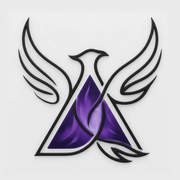
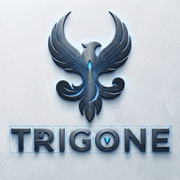
Version 39 : nouvelle icône de l'application TRIGONE
Claude-Session: https://claude.ai/code/session_01NStkfCttCkWn8HaycQvLWX

diff --git a/cr/index.html b/cr/index.html
@@ -11,9 +11,9 @@
 <link rel="manifest" href="../manifest.json">
 <meta name="apple-mobile-web-app-title" content="TRIGONE">
 <meta name="application-name" content="TRIGONE">
-<script src="../jumelage.js?v=39"></script>
-<link rel="icon" type="image/png" sizes="192x192" href="icon-192.png">
-<link rel="apple-touch-icon" href="apple-touch-icon.png">
+<script src="../jumelage.js?v=40"></script>
+<link rel="icon" type="image/png" sizes="192x192" href="icon-192.png?v=2">
+<link rel="apple-touch-icon" href="apple-touch-icon.png?v=2">
 <link rel="preconnect" href="https://fonts.googleapis.com">
 <link rel="preconnect" href="https://fonts.gstatic.com" crossorigin>
 <link href="https://fonts.googleapis.com/css2?family=Montserrat:wght@400;500;600;700;800&display=swap" rel="stylesheet">
@@ -11516,7 +11516,7 @@ function SET_UPDATE_SEEN_VERSION(cle, version) {
 // Numéro de version du code de CETTE appli. À augmenter à chaque publication, en même temps que
 // « appCodeVersion » dans updates-manifest.json : c'est ce qui permet à l'appli de savoir si elle est
 // déjà à jour (elle affiche alors les « Nouveautés ») ou en retard (elle demande la mise à jour).
-var APP_CODE_VERSION = 136;
+var APP_CODE_VERSION = 137;
 // Jumelage : numéro affiché « V1, V2… » ; APP_CODE_VERSION reste le compteur interne des mises à jour
 // (à augmenter avec appCodeVersion de cr/updates-manifest.json, sans jamais le faire redescendre).
 var APP_VERSION_AFFICHEE = APP_CODE_VERSION - 98;

diff --git a/index.html b/index.html
@@ -5,14 +5,14 @@
 <meta name="viewport" content="width=device-width, initial-scale=1, viewport-fit=cover">
 <title>TRIGONE — Mise en route</title>
 <link rel="manifest" href="manifest.json">
-<script src="jumelage.js?v=39"></script>
+<script src="jumelage.js?v=40"></script>
 <meta name="theme-color" content="#E8F0F6">
 <link rel="preconnect" href="https://fonts.googleapis.com">
 <link rel="preconnect" href="https://fonts.gstatic.com" crossorigin>
 <link href="https://fonts.googleapis.com/css2?family=Montserrat:wght@400;500;600;700;800&display=swap" rel="stylesheet">
-<link rel="apple-touch-icon" href="apple-touch-icon.png">
-<link rel="icon" type="image/png" sizes="32x32" href="favicon-32.png">
-<link rel="icon" type="image/png" sizes="192x192" href="icon-192.png">
+<link rel="apple-touch-icon" href="apple-touch-icon.png?v=2">
+<link rel="icon" type="image/png" sizes="32x32" href="favicon-32.png?v=2">
+<link rel="icon" type="image/png" sizes="192x192" href="icon-192.png?v=2">
 <meta name="apple-mobile-web-app-capable" content="yes">
 <meta name="apple-mobile-web-app-title" content="TRIGONE">
 <meta name="application-name" content="TRIGONE">
@@ -834,6 +834,6 @@ body.pc-depot::after { content: 'Déposez les fichiers pour les importer'; posit
     </div>
   </div>
 </div>
-<script src="app.js?v=39"></script>
+<script src="app.js?v=40"></script>
 </body>
 </html>

diff --git a/jumelage.js b/jumelage.js
@@ -420,7 +420,7 @@
     // Dès l'ouverture (démarrage ou retour dans l'appli), TRIGONE vérifie s'il existe une publication plus récente
     // et se met à jour tout seul. Jamais au mauvais moment : uniquement sur l'accueil, sans fenêtre ouverte
     // (chaque appli le dit via JUMELAGE_PEUT_RECHARGER) ; sinon au prochain retour sur l'accueil.
-    var BUILD = 39, MAJ_DISPO = false, CLE_RECHARGE = 'trigone_recharge_build';
+    var BUILD = 40, MAJ_DISPO = false, CLE_RECHARGE = 'trigone_recharge_build';
     function peutRecharger() {
         if (document.visibilityState === 'hidden') return false;
         if (document.body && document.body.classList.contains('demo-active')) return false;

diff --git a/app.js b/app.js
@@ -1,7 +1,7 @@
 // ===================== TRIGONE MISE EN ROUTE — logique =====================
 var MER_VERSION = 1;          // version du format des fichiers .json échangés
 // Version du code de l'appli : à augmenter à chaque publication, avec « appCodeVersion » dans updates-manifest.json.
-var APP_CODE_VERSION = 86;
+var APP_CODE_VERSION = 87;
 // Numéro de version affiché (« V1 », « V2 »…) : repart de 1 au lancement de TRIGONE jumelé et suit ensuite chaque
 // publication. APP_CODE_VERSION reste le compteur interne des mises à jour (ne jamais le faire redescendre).
 var APP_VERSION_AFFICHEE = APP_CODE_VERSION - 48;

diff --git a/cr/sw.js b/cr/sw.js
@@ -1,6 +1,6 @@
 // Copie jumelée dans TRIGONE Mise en route (dossier cr/) : caches préfixés « trigone-cr- » ; ceux de
 // Mise en route (« trigone-mise-en-route- ») ne sont jamais effacés d'ici.
-const CACHE_NAME = 'trigone-cr-v428';
+const CACHE_NAME = 'trigone-cr-v429';
 const ASSETS = [
   './',
   './manifest.json',

diff --git a/sw.js b/sw.js
@@ -1,4 +1,4 @@
-const CACHE_NAME = 'trigone-mise-en-route-v93';
+const CACHE_NAME = 'trigone-mise-en-route-v94';
 const ASSETS = [
   './',
   './manifest.json',
